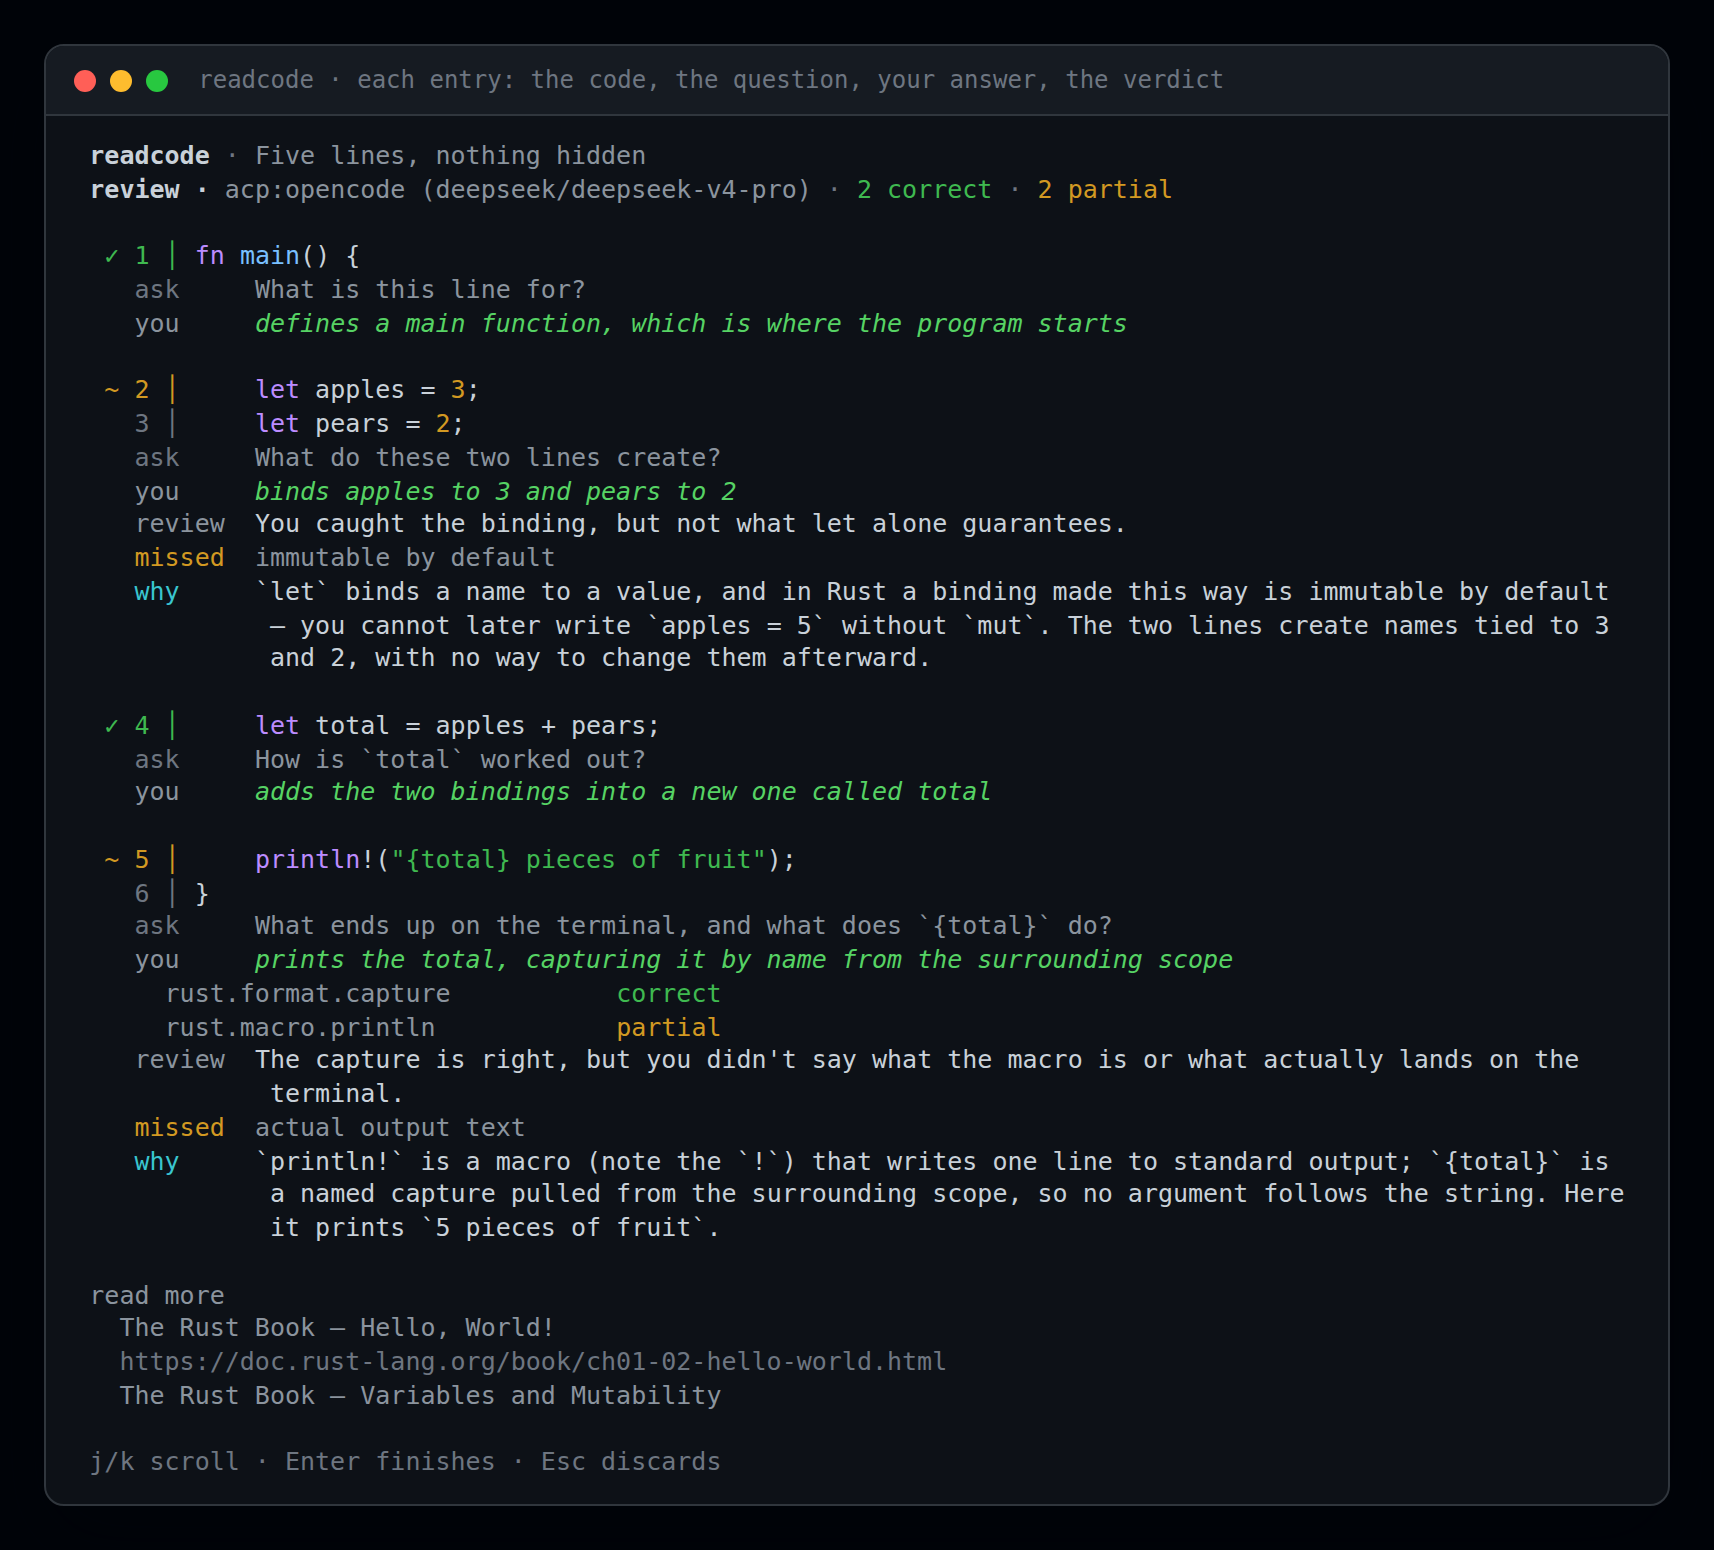
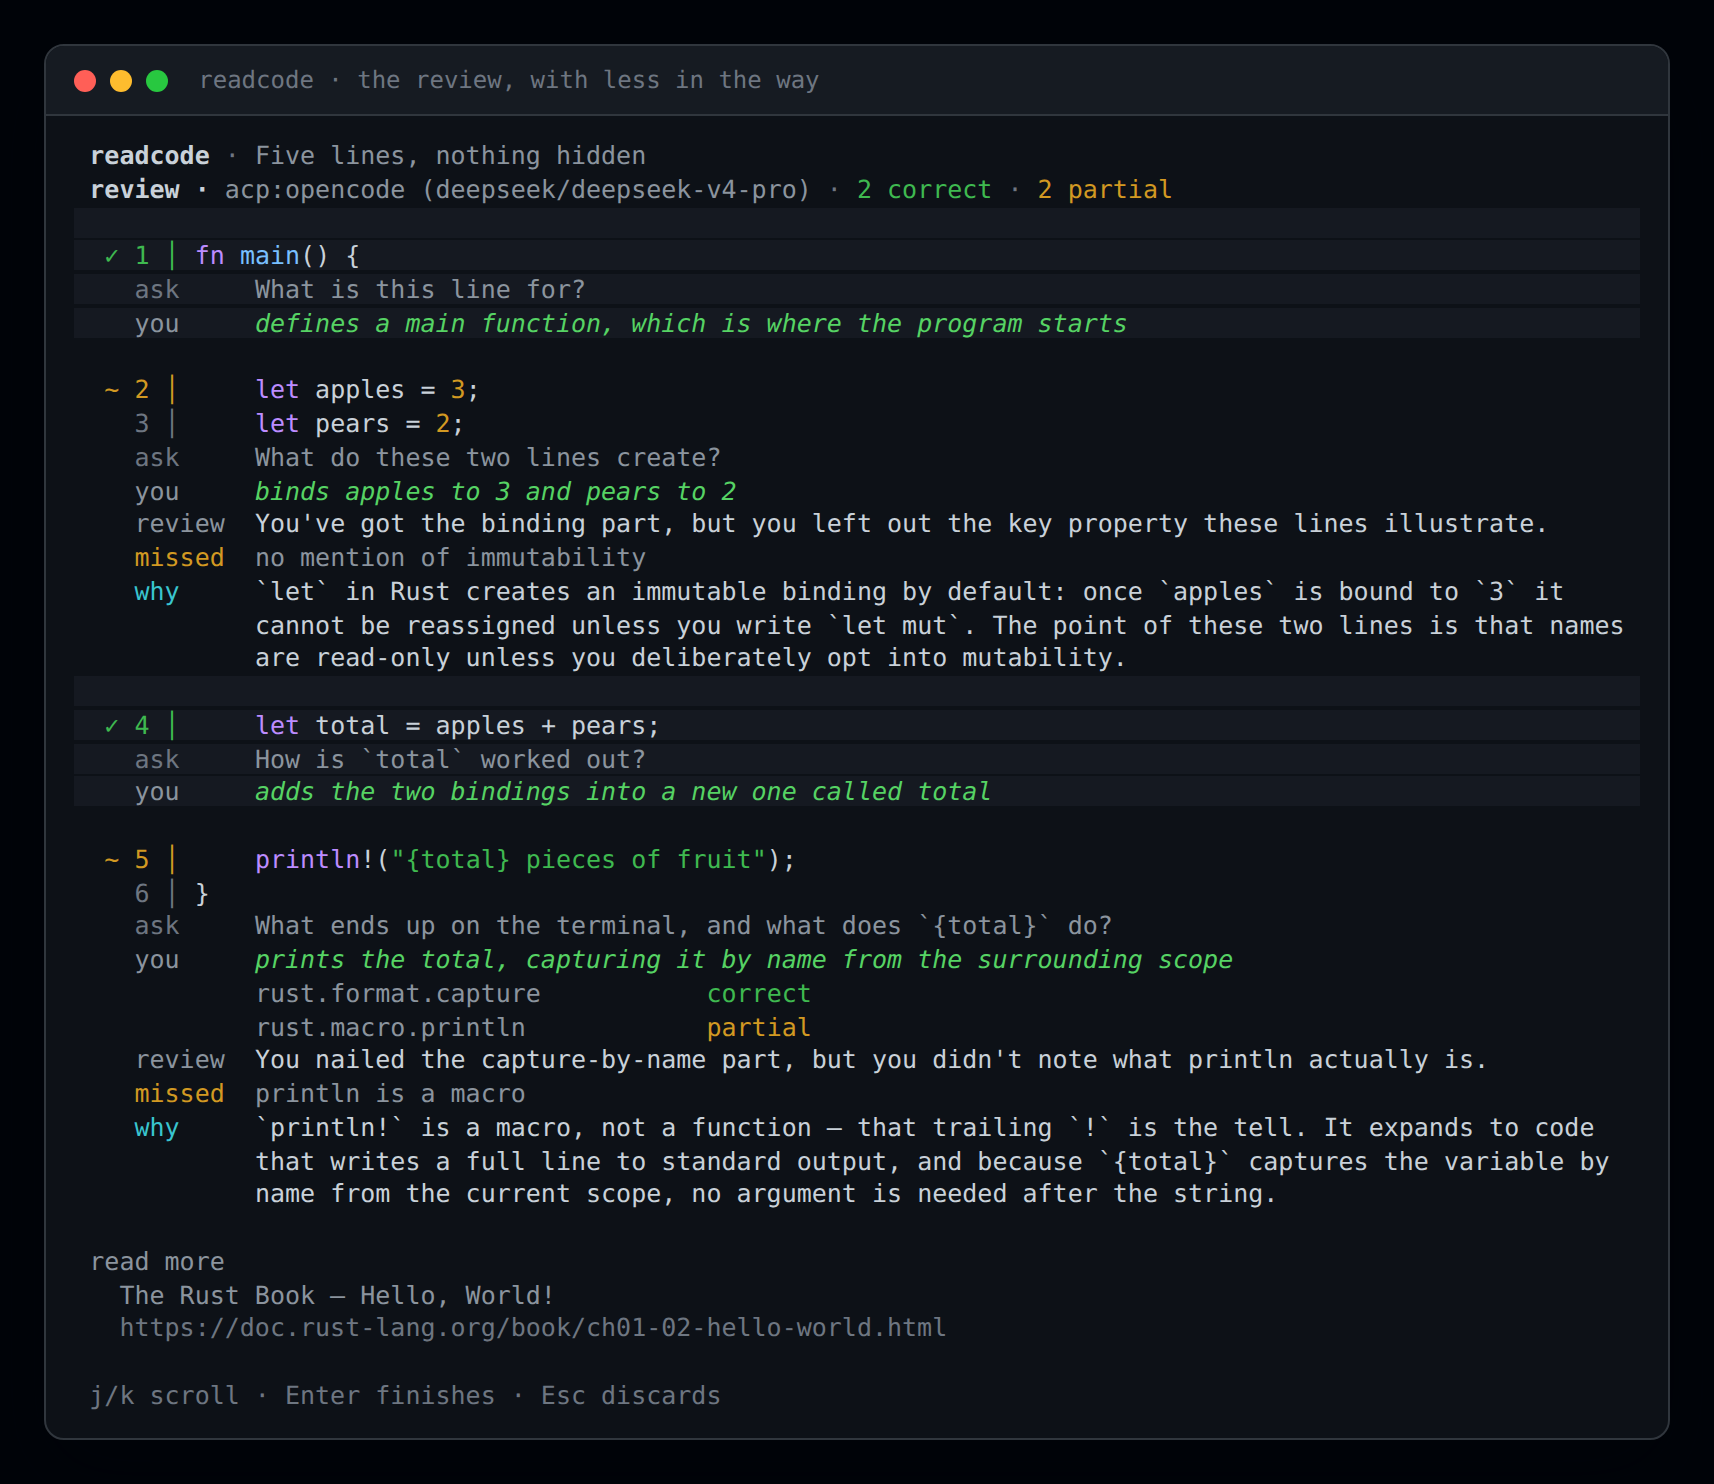
feat: band every other review entry
Scrolling a long review, the boundary between one prompt and the next was only findable by
reading the gutter. Alternate entries now sit on a slightly lighter background — quiet
enough to leave the syntax colours alone, and running to the right edge so the band is a
band rather than a highlight behind the text.

Two things fixed on the way: the band initially skipped every correct entry, because those
leave the loop early, and the concept rows plus wrapped label text sat one column right of
the text they belong to.

diff --git a/src/tui/draw.rs b/src/tui/draw.rs
@@ -57,6 +57,11 @@ impl Theme {
     fn hint() -> Style {
         Style::default().fg(Color::DarkGray)
     }
+    /// Every other entry gets this behind it. Subtle on purpose: it separates
+    /// blocks while scrolling, it does not decorate them.
+    fn band() -> Color {
+        Color::Rgb(21, 25, 33)
+    }
     fn focus() -> Style {
         Style::default().fg(Color::Black).bg(Color::LightGreen)
     }
@@ -413,10 +418,11 @@ fn draw_review(frame: &mut Frame, app: &App, area: Rect) {
     }
     rows.push(Line::from(summary));
 
-    for graded in &grade.prompts {
+    for (entry, graded) in grade.prompts.iter().enumerate() {
         let Some(prompt) = app.prompts.get(graded.prompt) else {
             continue;
         };
+        let band_start = rows.len();
         rows.push(Line::raw(""));
         // The verdict sits on the first code row, so one prompt is one block
         // rather than a header followed by the code it describes.
@@ -451,51 +457,53 @@ fn draw_review(frame: &mut Frame, app: &App, area: Rect) {
 
         // A correct answer needs no review and no lesson: the praise is noise,
         // and the lesson is for the lines that did not land.
-        if graded.verdict == Verdict::Correct {
-            continue;
-        }
-        let nuanced = graded
-            .concepts
-            .iter()
-            .any(|(_, verdict)| *verdict != graded.verdict);
-        if nuanced {
-            for (concept, verdict) in &graded.concepts {
-                rows.push(Line::from(vec![
-                    Span::styled("      ", Theme::hint()),
-                    Span::styled(format!("{concept:<30}"), Theme::dim()),
-                    Span::styled(verdict_name(*verdict).to_string(), Theme::verdict(*verdict)),
-                ]));
+        if graded.verdict != Verdict::Correct {
+            let nuanced = graded
+                .concepts
+                .iter()
+                .any(|(_, verdict)| *verdict != graded.verdict);
+            if nuanced {
+                for (concept, verdict) in &graded.concepts {
+                    rows.push(Line::from(vec![
+                        Span::styled(" ".repeat(LABEL_INDENT), Theme::hint()),
+                        Span::styled(format!("{concept:<30}"), Theme::dim()),
+                        Span::styled(verdict_name(*verdict).to_string(), Theme::verdict(*verdict)),
+                    ]));
+                }
+            }
+            if !graded.feedback.trim().is_empty() {
+                labelled(
+                    &mut rows,
+                    "review",
+                    graded.feedback.trim(),
+                    Theme::dim(),
+                    Style::default(),
+                    width,
+                );
+            }
+            if !graded.missing.is_empty() {
+                labelled(
+                    &mut rows,
+                    "missed",
+                    &graded.missing.join(" · "),
+                    Theme::verdict(Verdict::Partial),
+                    Theme::dim(),
+                    width,
+                );
+            }
+            if let Some(teach) = &graded.teach {
+                labelled(
+                    &mut rows,
+                    "why",
+                    teach,
+                    Theme::type_(),
+                    Style::default(),
+                    width,
+                );
             }
         }
-        if !graded.feedback.trim().is_empty() {
-            labelled(
-                &mut rows,
-                "review",
-                graded.feedback.trim(),
-                Theme::dim(),
-                Style::default(),
-                width,
-            );
-        }
-        if !graded.missing.is_empty() {
-            labelled(
-                &mut rows,
-                "missed",
-                &graded.missing.join(" · "),
-                Theme::verdict(Verdict::Partial),
-                Theme::dim(),
-                width,
-            );
-        }
-        if let Some(teach) = &graded.teach {
-            labelled(
-                &mut rows,
-                "why",
-                teach,
-                Theme::type_(),
-                Style::default(),
-                width,
-            );
+        if entry % 2 == 0 {
+            band(&mut rows[band_start..], width);
         }
     }
 
@@ -531,6 +539,26 @@ fn draw_review(frame: &mut Frame, app: &App, area: Rect) {
             .scroll((scroll, 0)),
         area,
     );
+}
+
+/// Give a run of rows one background, all the way to the right edge — a band is
+/// only readable if it reaches the edge, and a Paragraph only paints the cells a
+/// span covers.
+fn band(rows: &mut [Line], width: usize) {
+    for line in rows {
+        let used: usize = line
+            .spans
+            .iter()
+            .map(|span| span.content.chars().count())
+            .sum();
+        line.style = line.style.bg(Theme::band());
+        if used < width {
+            line.spans.push(Span::styled(
+                " ".repeat(width - used),
+                Style::default().bg(Theme::band()),
+            ));
+        }
+    }
 }
 
 /// Where to read more: whatever the snippet author added, then one page per
@@ -608,6 +636,11 @@ fn code_rows(
 }
 
 /// One labelled paragraph: a dim label in a fixed column, then wrapped text.
+/// Where the text after a label starts: 4 spaces of margin plus an 8-wide label
+/// column. Shared by every row that lines up under the labels, so nothing sits a
+/// stray column away from its neighbours.
+const LABEL_INDENT: usize = 12;
+
 fn labelled(
     rows: &mut Vec<Line>,
     label: &str,
@@ -616,7 +649,7 @@ fn labelled(
     text_style: Style,
     width: usize,
 ) {
-    let indent = 13usize;
+    let indent = LABEL_INDENT;
     for (index, piece) in wrap(text, width.saturating_sub(indent).max(20))
         .into_iter()
         .enumerate()
@@ -969,6 +1002,58 @@ mod tests {
         assert!(!screen.contains("Spot on"), "{screen}");
         assert!(!screen.contains("why"), "{screen}");
         assert!(!screen.contains("review  "), "{screen}");
+    }
+
+    #[test]
+    fn every_other_entry_is_banded_right_to_the_edge() {
+        let corpus = Corpus::builtin().unwrap();
+        let snippet = corpus.find("006").unwrap();
+        let mut app = app_with_answer(snippet);
+        let grade = Grade {
+            reviewer: "acp:opencode".into(),
+            summary: String::new(),
+            prompts: vec![
+                PromptGrade {
+                    prompt: 0,
+                    verdict: Verdict::Correct,
+                    concepts: vec![(app.prompts[0].concepts[0].clone(), Verdict::Correct)],
+                    feedback: String::new(),
+                    missing: vec![],
+                    teach: None,
+                },
+                PromptGrade {
+                    prompt: 1,
+                    verdict: Verdict::Correct,
+                    concepts: vec![(app.prompts[1].concepts[0].clone(), Verdict::Correct)],
+                    feedback: String::new(),
+                    missing: vec![],
+                    teach: None,
+                },
+            ],
+        };
+        app.finish(grade);
+
+        let width = 96u16;
+        let mut terminal = Terminal::new(TestBackend::new(width, 24)).unwrap();
+        terminal.draw(|frame| draw(frame, &app)).unwrap();
+        let buffer = terminal.backend().buffer().clone();
+
+        // Find the two code rows, then read the background of their last cell.
+        let mut code_rows = Vec::new();
+        for y in 0..buffer.area.height {
+            let mut row = String::new();
+            for x in 0..buffer.area.width {
+                row.push_str(buffer[(x, y)].symbol());
+            }
+            if row.contains("│ fn main()") || row.contains("│     let") {
+                code_rows.push(y);
+            }
+        }
+        assert_eq!(code_rows.len(), 2, "expected two entries");
+        let first = buffer[(width - 1, code_rows[0])].bg;
+        let second = buffer[(width - 1, code_rows[1])].bg;
+        assert_eq!(first, Theme::band(), "the first entry is banded");
+        assert_eq!(second, Color::Reset, "the second is not");
     }
 
     #[test]
